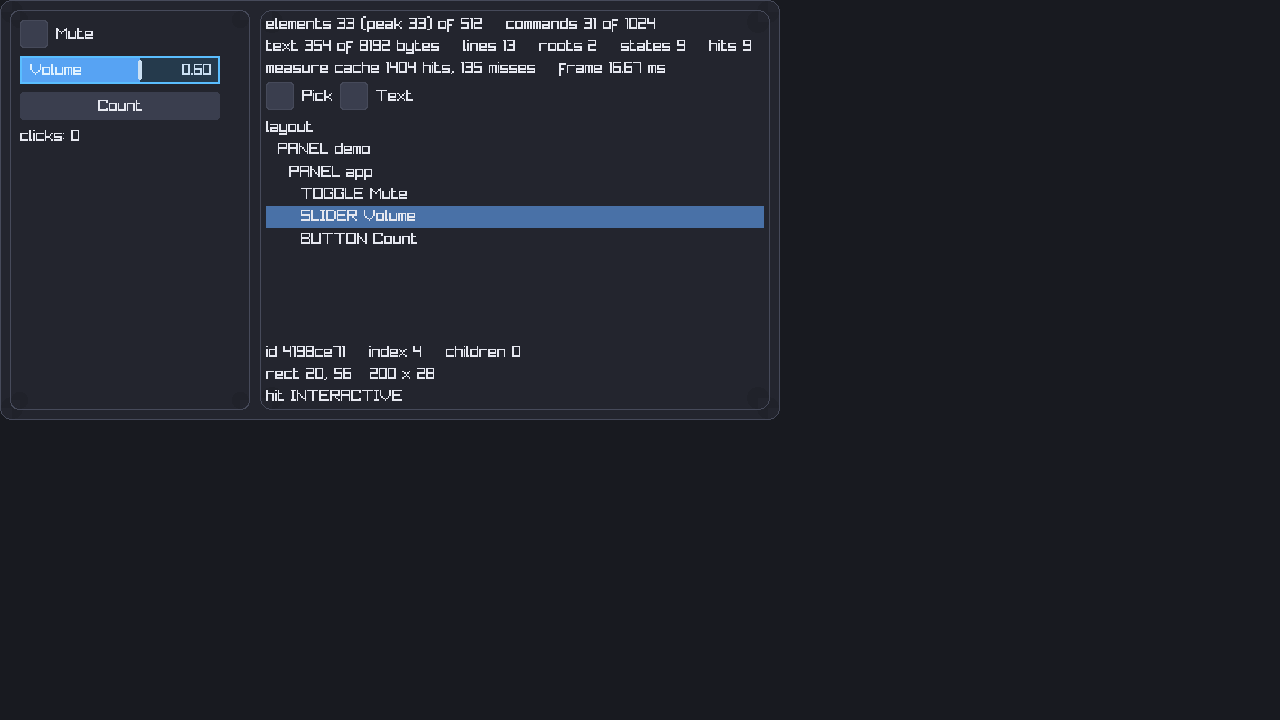
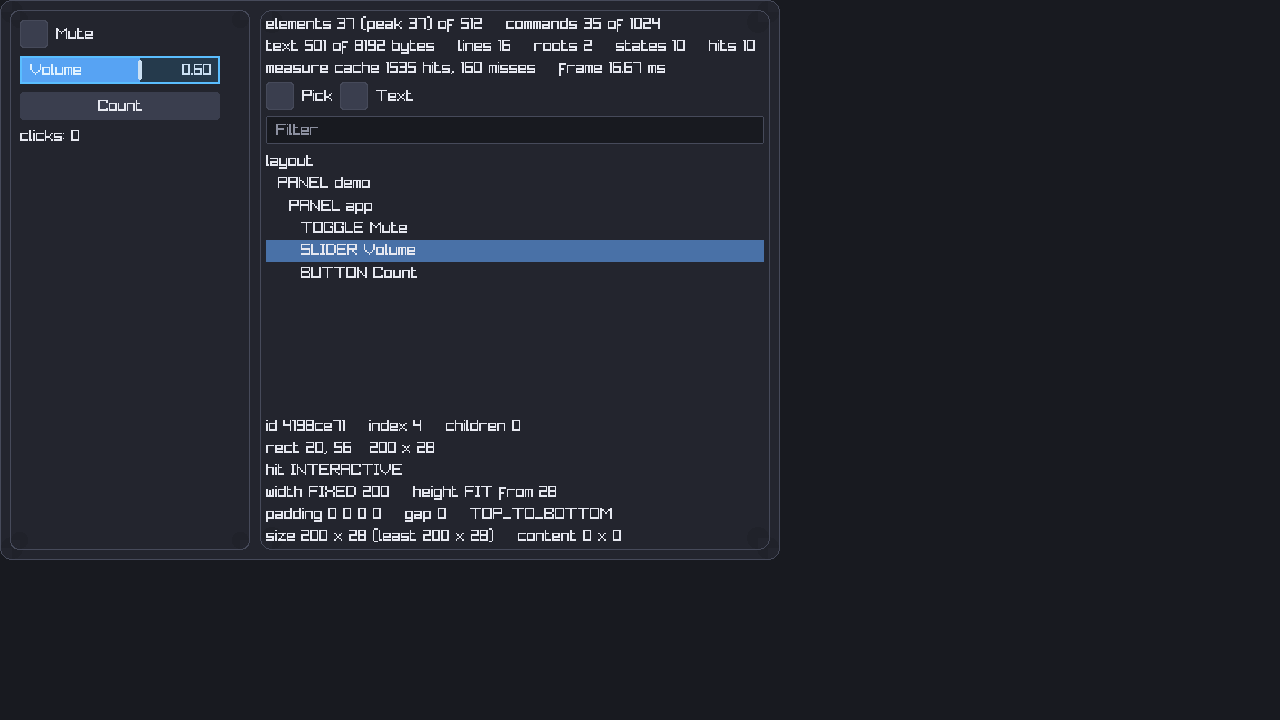
ui: inspector shows the layout of the selected element and filters the tree
The details of the selected element: what its layout was told (sizing of each axis, padding, gap, direction), the size it got and the least one, floating,
absolute, zoom, clipping and scroll. A filter keeps the rows whose name, text or kind contain the typed text. The selection follows its element when the
rows change; rows are numbered without the inspector's own elements so that its marks do not shift them from one frame to the next (that moved the
selection to another element before).

Claude-Session: https://claude.ai/code/session_01VmEee6MKKvbYT6tj2787vE

diff --git a/ui/README.md b/ui/README.md
@@ -170,7 +170,8 @@ declared): the arrow opens and closes, a click on a name selects, a double click
 `UiInspector(&ctx, "Inspector", size)` (`inspector.odin`) is a panel for looking at the ui while it runs: the tree of the elements of the last frame (kind, name, indented by depth, `Text` adds the text elements), what the buffers cost against the sizes of the
 `Storage` (elements with their peak, commands, text bytes, lines, roots, states, hits), the measure cache and the frame time, and picking: with `Pick` on (or `UiInspectorPick(&ctx)` from a key) a press outside of the panel does not click what is under the pointer, it selects
 that element in the tree (marked on the screen with a `HIGHLIGHT` rectangle, the hovered one orange, the selected one blue); the details show its id, rect and hit kinds. The elements are copied at the end of a frame that declared the panel into a fixed table
-(`INSPECTOR_ROWS`, 1024), so a frame without it costs nothing, and its own elements are left out. `InspectorRows`, `UiInspectorSelected` give the data to a program. Demo: `demo_common/demo_inspector.odin`.
+(`INSPECTOR_ROWS`, 1024), so a frame without it costs nothing, and its own elements are left out. The details of the selected element show what its layout was told (the sizing of each axis, padding, gap, direction, the size it got and the least one, floating, absolute, zoom, clipping and scroll); `UiInspectorDetail` gives them to a program.
+A filter field keeps the rows whose name, text or kind contain what is typed (the selected one stays), and the selection follows its element when the rows change (a filter, the texts coming in). `InspectorRows`, `UiInspectorSelected` give the data to a program. Demo: `demo_common/demo_inspector.odin`.
 A `Context` is big now (about 300 KB: the tables of the measure cache, the inspector, the text area rows): make it a global or allocate it, as the `Storage`.
 
 ## Lists and tables of many rows

diff --git a/ui/TODO.md b/ui/TODO.md
@@ -27,7 +27,8 @@ Tick an item when it is done and verified (tests pass, committed).
 - [ ] Timeline: automation lanes (keys on a line), a vertical zoom of the tracks, duplicate (a copy right after the clip)
 - [x] Virtual list and table (`UiVirtual`, `UiTable`): only the rows in view are declared, selection by pointer and keys, sortable header, resizable columns; demo with 100 000 rows and a screenshot
 - [x] Inspector panel (`UiInspector`): element tree of the last frame, buffer usage, measure cache, picking by the pointer; demo with a screenshot
-- [ ] Inspector: the layout of the selected element (sizing, padding, gap, floating), the draw commands of a frame as a list, a filter by name, collapsing of the tree
+- [x] Inspector: the layout details of the selected element, a filter by name, text or kind, a selection that follows its element
+- [ ] Inspector: the draw commands of a frame as a list, collapsing of the tree, a frame history (the cost of the last frames as a plot)
 - [x] Table: sideways scrolling (wheel with Shift, bar, header goes along) and a last column that fills the room
 - [ ] Table: reordering columns by dragging a header, double click on an edge to fit the column, keys inside of a row (cells that are widgets)
 - [x] Tree (`Tree`, `UiTree`): fixed storage model, visible rows flattened, arrows, keys, lazy loading through `view.toggled`; demo with a screenshot
